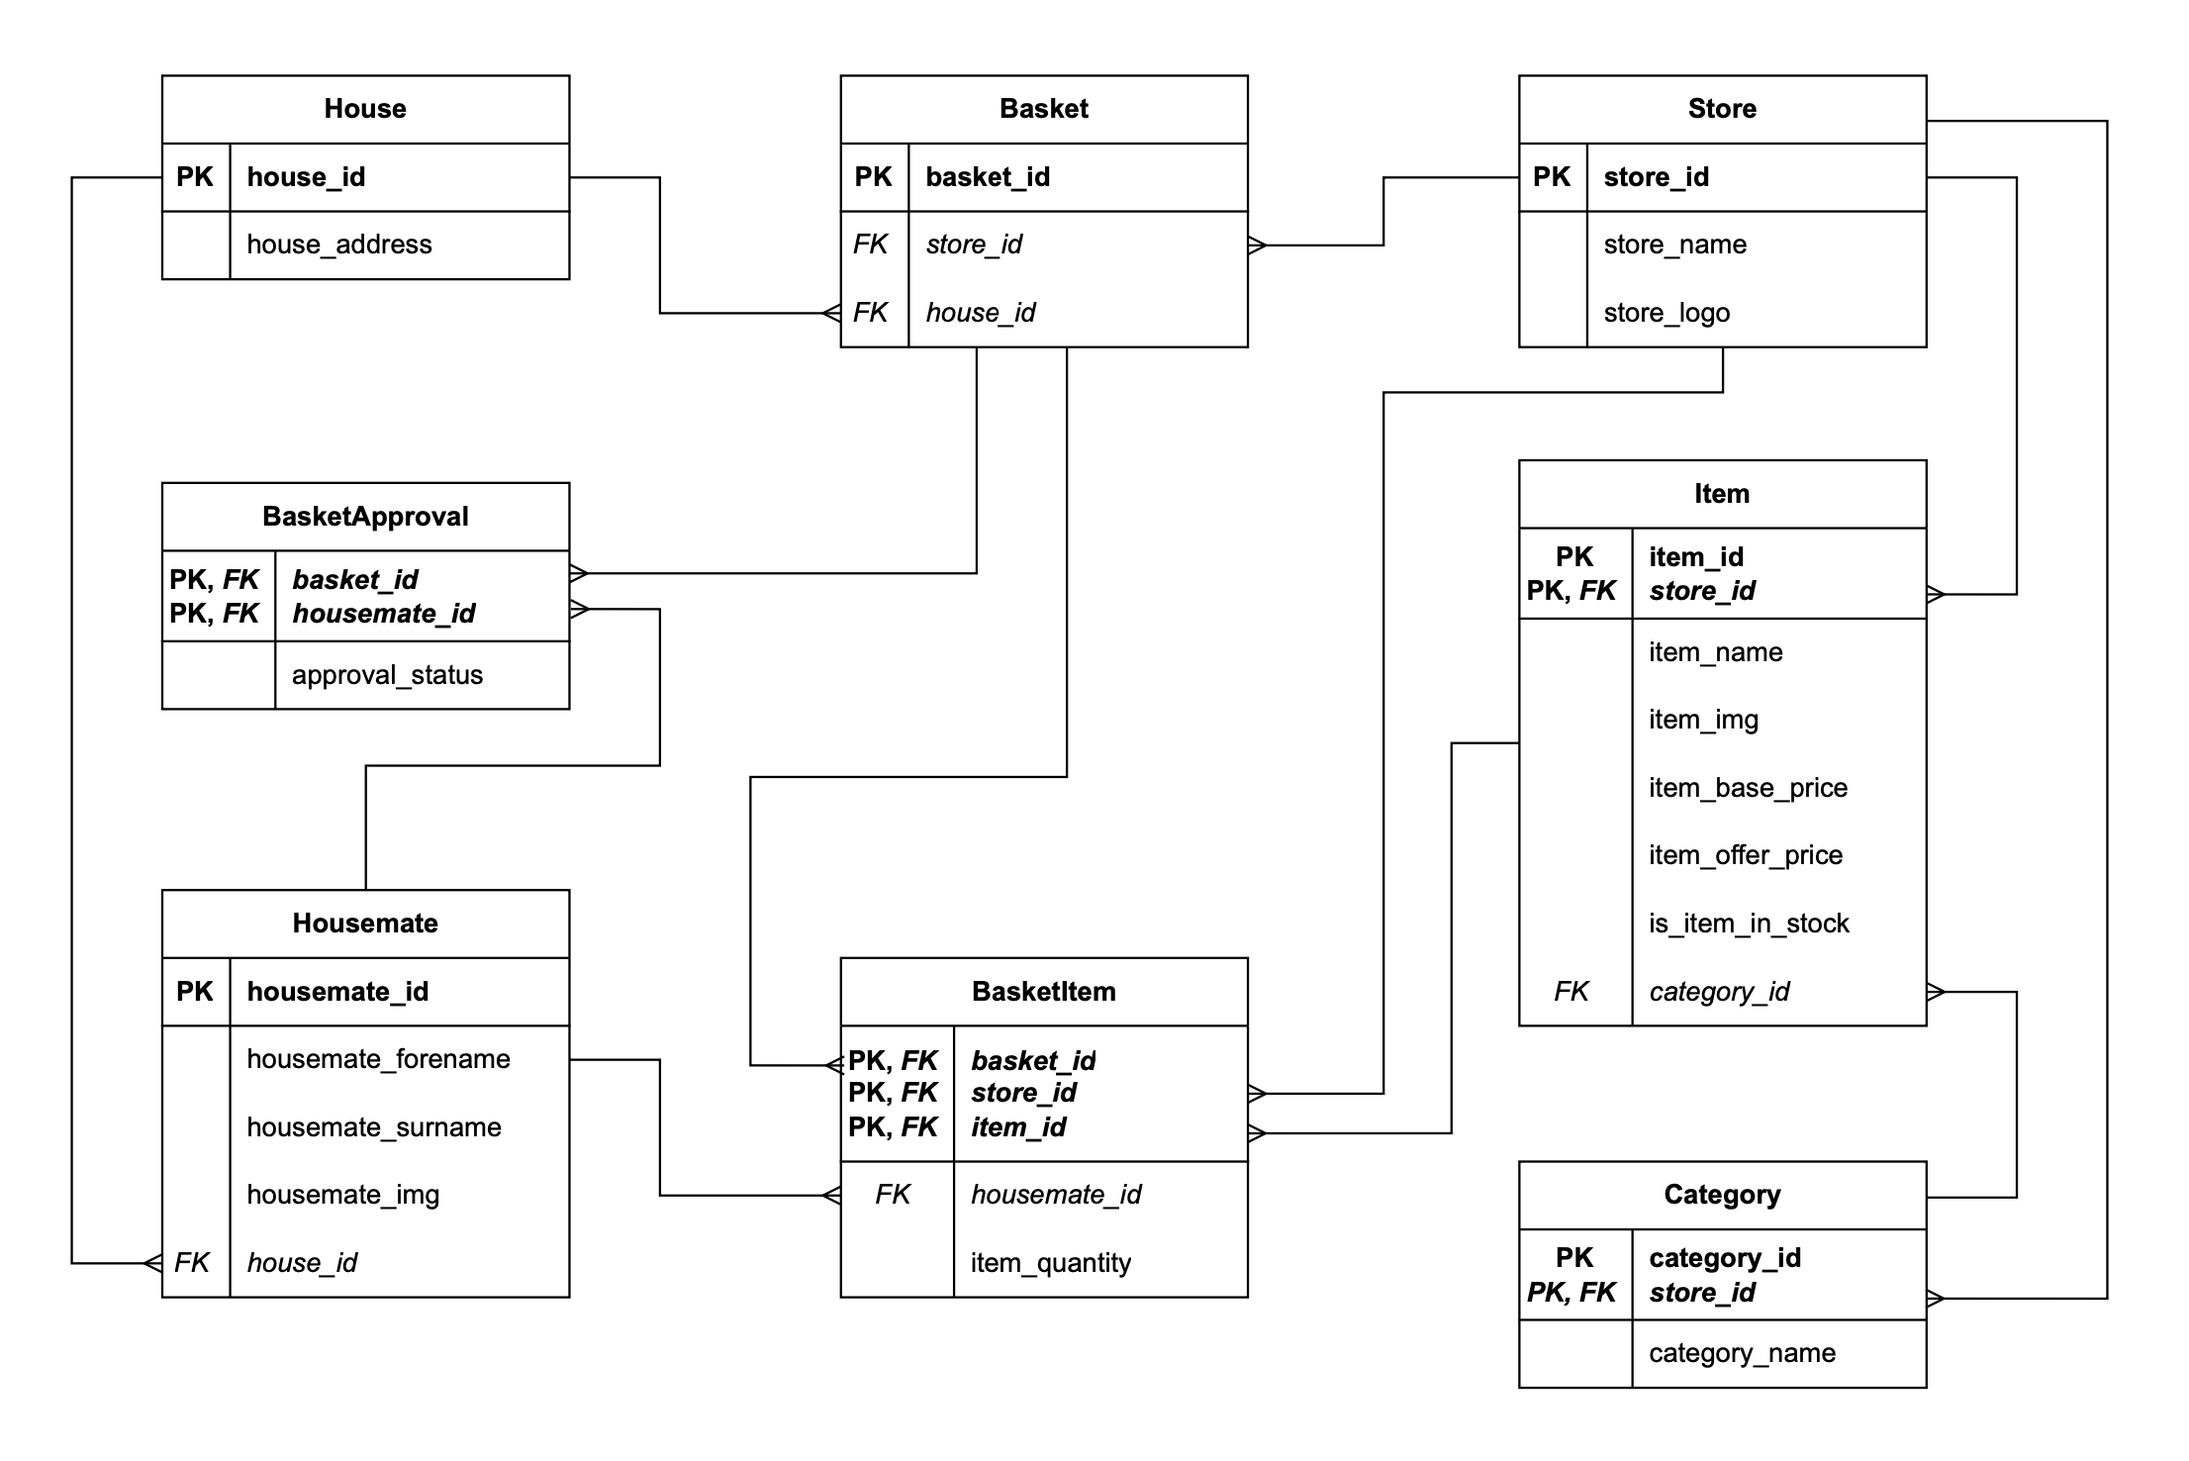
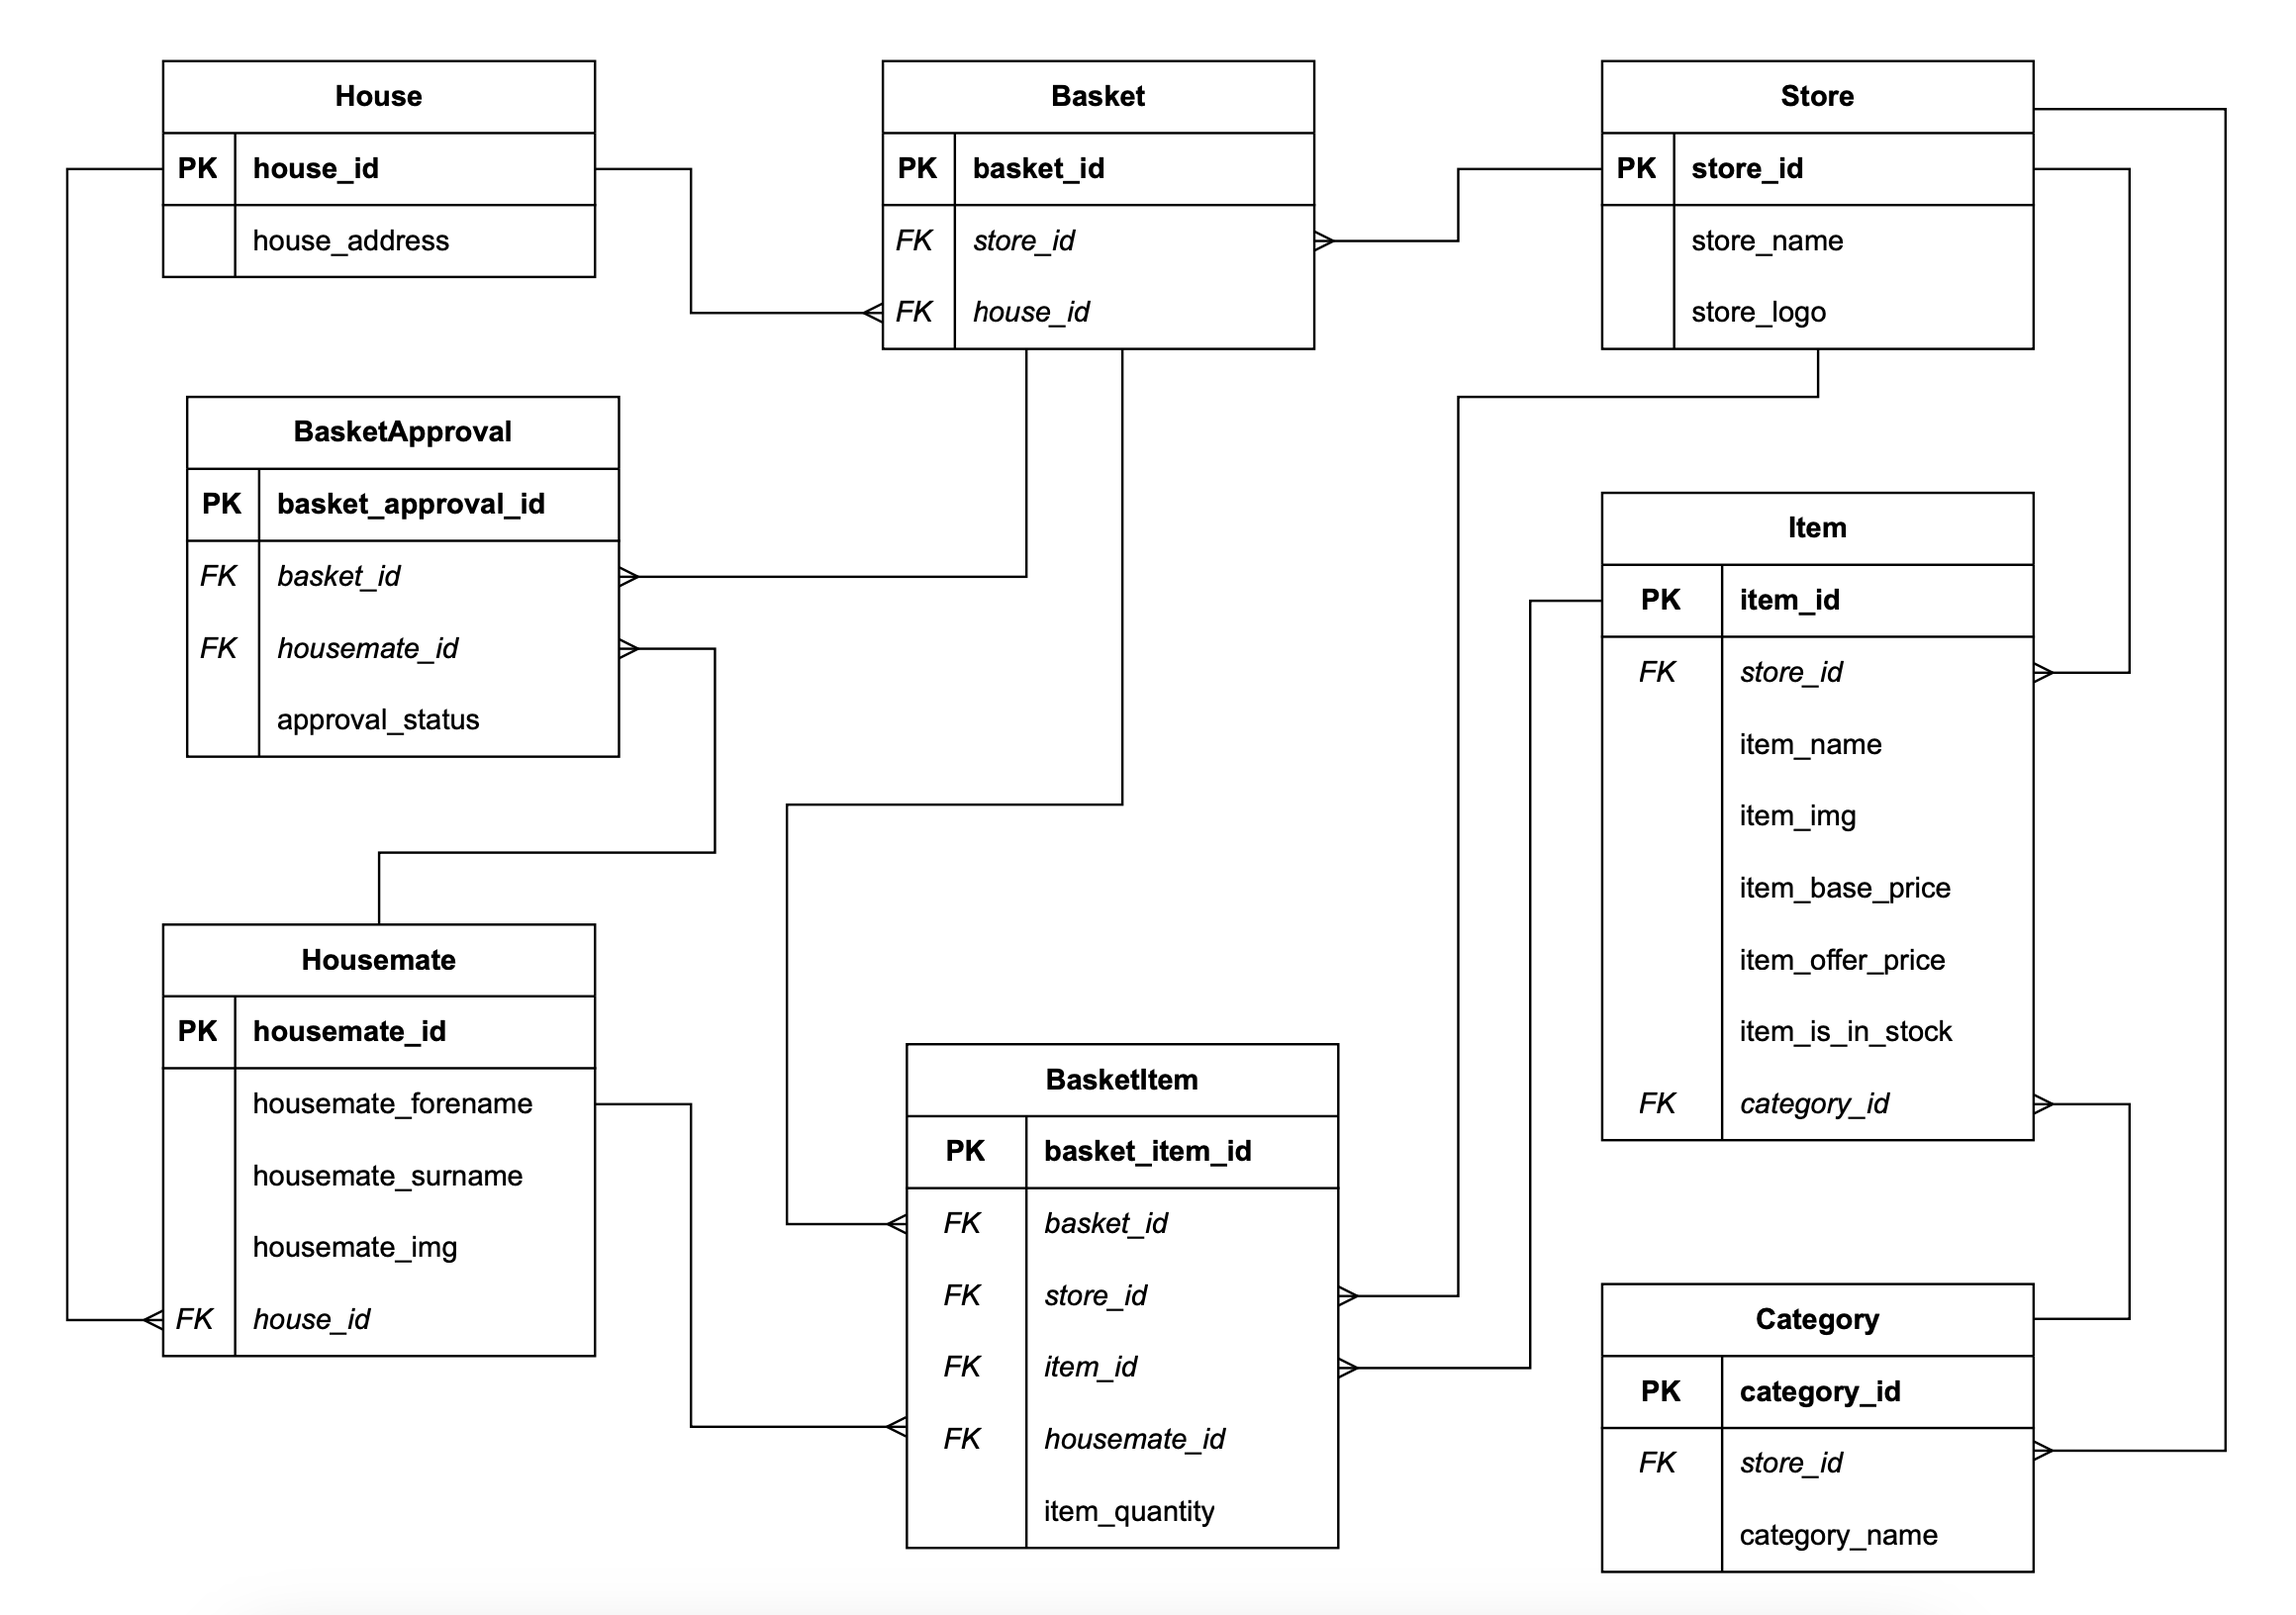
Added initial files for Milestone 2 documentation
Added various files for the Milestone 2 documentation pertaining specifically to the SSH Cloud facet of the prototype.

diff --git a/Documentation/SSH Cloud/Database Schema.md b/Documentation/SSH Cloud/Database Schema.md
@@ -10,6 +10,69 @@ The schema for this database has been constructed, as shown below:
 ![SSH Cloud Database Schema](./Attachments/SSH%20Cloud%20Database%20Design.png)
 
 ## Changes made from the EDR
-As of Milestone 1:
-- An error has been corrected in the `BasketApproval` table, where in the EDR, both attributes of the composite primary key erroneously ommitted foreign key declarations.
+As of Milestone 2:
+- The database schema has been significantly altered in its structure to remove composite primary keys, instead replacing them with a single-attribute (i.e. non-composite) primary key, due to the difficulties the composite keys were causing during the implementation process. Though this is _structurally_ a significant change to the database design, it _doesn't_ greatly affect the data that the database stores, or how it behaves, where this change mainly provides simplifications in the implementation process, without affecting the functionality of the SSH Cloud product.
 - An attribute has been added to the `Store` table - namely `store_logo`, which allows client UI applications to show a logo for stores, rather than *just* their name.
+
+---
+---
+## Entity Descriptions
+See below for the datatype specification of each attribute in each entity, and (where unclear) a description explaining the role of that attribute in the database.
+
+### `Basket` Entity
+| Attribute | Type | Key Annotations | Description |
+| --------- | ---- | --------------- | ----------- |
+| `basket_id` | Integer (auto-increment, non-repeating) | **Primary Key** | - |
+| `store_id` | Integer | _Foreign Key_ | - |
+| `house_id` | Integer | _Foreign Key_ | - |
+
+### `BasketItem` Entity
+| Attribute | Type | Key Annotations | Description |
+| --------- | ---- | --------------- | ----------- |
+| `basket_item_id` | Integer (auto-increment, non-repeating) | **Primary Key** | - |
+| `basket_id` | Integer | _Foreign Key_ | - |
+| `store_id` | Integer | _Foreign Key_ | - |
+| `item_id` | Integer | _Foreign Key_ | - |
+| `housemate_id` | Integer | _Foreign Key_ | - |
+| `item_quantity` | Integer | - | - |
+
+### `Category` Entity
+| Attribute | Type | Key Annotations | Description |
+| --------- | ---- | --------------- | ----------- |
+| `category_id` | Integer (auto-increment, non-repeating) | **Primary Key** | - |
+| `store_id` | Integer | _Foreign Key_ | - |
+| `category_name` | String | - | - |
+
+### `House` Entity
+| Attribute | Type | Key Annotations | Description |
+| --------- | ---- | --------------- | ----------- |
+| `house_id` | Integer (auto-increment, non-repeating) | **Primary Key** | - |
+| `house_address` | String | - | A physical property address for where the group order should be delivered to. |
+
+### `Housemate` Entity
+| Attribute | Type | Key Annotations | Description |
+| --------- | ---- | --------------- | ----------- |
+| `housemate_id` | Integer (auto-increment, non-repeating) | **Primary Key** | - |
+| `housemate_forename` | String | - | The housemate's first name - i.e. "Nathan" of "Nathan Drake". |
+| `housemate_surname` | String | - | The housemate's last name - i.e. "Drake" of "Nathan Drake". |
+| `housemate_img` | String | - | A URL for the profile image of the housemate. |
+| `house_id` | Integer | _Foreign Key_ | - |
+
+### `Item` Entity
+| Attribute | Type | Key Annotations | Description |
+| --------- | ---- | --------------- | ----------- |
+| `item_id` | Integer (auto-increment, non-repeating) | **Primary Key** | - |
+| `store_id` | Integer | _Foreign Key_ | - |
+| `item_name` | String | - | - |
+| `item_img` | String | - | A URL for the supermarket's image of the grocery item. |
+| `item_base_price` | Double | - | This is the full normal retail price of the grocery item. |
+| `item_on_offer_price` | Double | - | This is the "on-offer" price of the grocery item. If the item is _not_ on offer, then this value will be the same as the `item_base_price`. |
+| `item_is_in_stock` | Boolean | - | This is `True` if there is stock of the item available for purchase, and `False` otherwise. | 
+| `category_id` | Integer | _Foreign Key_ | - |
+
+### `Store` Entity
+| Attribute | Type | Key Annotations | Description |
+| --------- | ---- | --------------- | ----------- |
+| `store_id` | Integer (auto-increment, non-repeating) | **Primary Key** | - |
+| `store_name` | String | - | - |
+| `store_logo` | String | - | A URL for the image of the logo of the partner supermarket. |

diff --git a/Documentation/SSH Cloud/Supermarket APIs.md b/Documentation/SSH Cloud/Supermarket APIs.md
@@ -1,0 +1,15 @@
+# Supermarket APIs
+---
+## Outlining a Framework
+Within the `SSH Cloud` project directory is a package called `supermarketAPIs` which is intended to contain all of the necessary methods to retrieve information about the items (and the various categories that they belong to) that can be purchased in the online group grocery order.
+
+By containing these classes and methods in this package, we've abstracted this aspect of the system from the SSH Cloud functionality, and have thus created a framework which can be adapted depending on the nature of each supermarket API.
+
+## How it's being prototyped
+For the scope of this prototype however, the API functionality has been "simualted" by hard-coded data.
+
+The sample supermarket API - called the `MoneyBurnerMarket` API loads up hard-coded test data from JSON files.
+
+The data is read in from these JSON files by the `JsonUtilities` class in the `utilities` package in the SSH Cloud project, and uses the Jackson library to parse the JSON file contents to the correct database entity objects.
+
+The class then has a method that uses methods in the `handlers` package, that runs the necessary commands on the MySQL Server's database to populate the test data into the database.

diff --git a/Documentation/SSH Cloud/Dependencies.md b/Documentation/SSH Cloud/Dependencies.md
@@ -1,0 +1,11 @@
+# Dependencies
+---
+See below for an explanation of the key dependencies used by the SSH Cloud product prototype, and what role each dependency fulfils in the project:
+
+| Dependency | Role |
+| ---------- | ---- |
+| Hibernate | Hibernate is being used for Object/Relational Mapping (ORM) to simplify implementing the database within the Java project, allowing the team to avoid writing _both_ class definitions for each object that corresponds to a table in the database and SQL commands for database management, getting us to the demonstration of project viabilitiy quicker. |
+| MySQL | MySQL is the database server platform being used to implement the datbaase for SSH Cloud. |
+| JUnit | JUnit is the unit testing platform for SSH Cloud, and is also exploited in a client-server context to run integration tests for the SSH Cloud server, its corresponding database sever, and a client instance. |
+| Javax Persistence API | The Javax Persistence API is being used, in conjunction with Hibernate, to utilise ORM (as described above). |
+| Lombok | Lombok is being used as an annotation processor for the ORM-related annotations in the prototype. |

diff --git a/Documentation/SSH Cloud/Containerisation and Orchestration.md b/Documentation/SSH Cloud/Containerisation and Orchestration.md
@@ -1,0 +1,16 @@
+# Containerisation and Orchestration
+---
+Within the larger prototype, the SSH Cloud prototype consists of a server that listens and waits for requests from client instances. To persist the data required to service these requests, as well as the data that these requests generate, the SSH Cloud server utilises a separate MySQL database server.
+
+To seamlessly integrate communication between each of these servers and the client instance, and to ensure compatability across platforms, containerisation has been used to isolate the SSH Cloud server and its database server in seaprate Docker containers.
+
+The architecture of this containerisation structure is as follows:
+
+![SSH Cloud containerisation diagram]()
+
+To _orchestrate_ these containers, **docker-compose** has been used to start containers like so:
+- asdf
+
+This containerisation and orchestration gives rise to a continuous integration workflow.
+
+# Continuous Integration Workflow

diff --git a/Documentation/Initial Planning.md b/Documentation/Initial Planning.md
@@ -24,6 +24,8 @@ For SSH Cloud, we propose implementing a networked server in Java, that creates,
 
 The reason we chose Java and MySQL is due to the developers' familiarity with the technologies, and the excellent documentation for both platforms, which we hope will reduce the time taken to produce the prototype.
 
+Though we originally planned to use Gradle as the build system for the SSH Cloud prototype, we instead plan to use Maven. This is due to a bug when attempting to compile with a certain dependency when using Gradle preventing compilation - _an issue not experienced when using Maven_.
+
 We also propose using Javalin to implement networking between the SSH Cloud and SSH App products.
 
 #### SSH App
